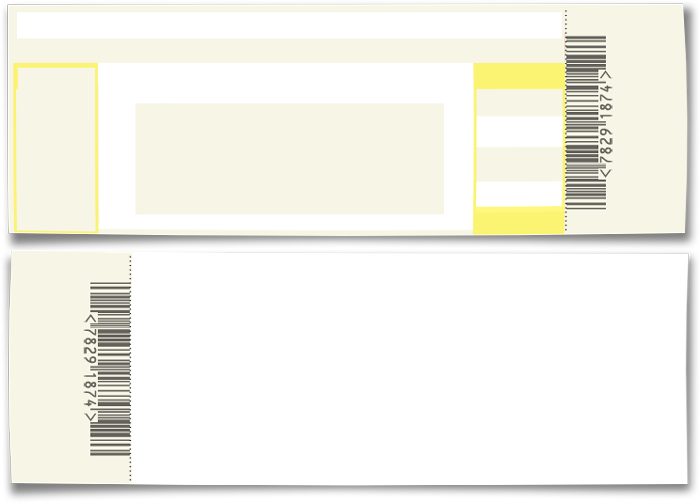
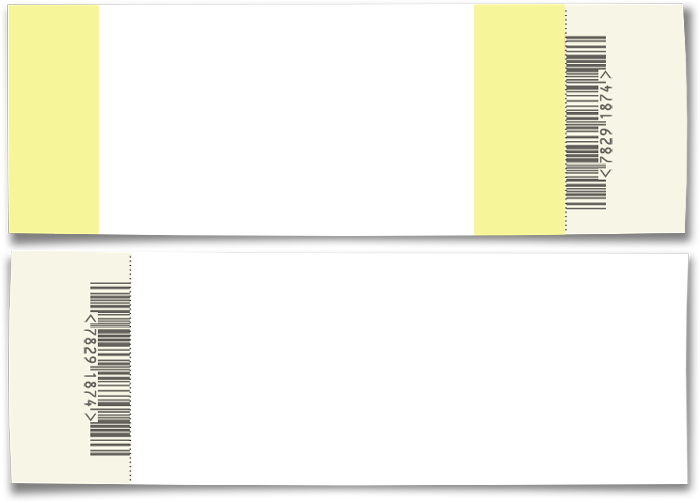
Refactoed ticket graphic. Fixed ff.flip and background transparency

Changed region(s): [[0.0, 0.0, 0.81, 0.4771]]

diff --git a/public/stylesheets/friskyfactory/waves/event.css b/public/stylesheets/friskyfactory/waves/event.css
@@ -13,6 +13,7 @@
 	position: absolute;
 	width: 700px;
 	height: 254px;
+	background-color: transparent;
 	-webkit-transform-style: preserve-3d;	
 	-webkit-transition-property: -webkit-transform;
 	-webkit-transition-duration: 1s;
@@ -25,6 +26,17 @@
 .ticket-container > .ticket .face {
 	position: absolute;
 	-webkit-backface-visibility: hidden;    
+}
+
+.ticket a.flip {
+	display: block;
+	text-decoration: none;
+	text-indent: -5000px;
+	width: 18px;
+	height: 20px;
+	margin-top: 208px;
+	margin-left: 62px;
+	background: url(/images/friskyfactory/buddy-bar.png) top left no-repeat;	
 }
 
 .ticket .front.face {
@@ -84,15 +96,15 @@
 	font-size: 16px;
 }
 
+.ticket-container > .ticket .back.face {
+	-webkit-transform: rotateY(180deg);
+}
+
 .ticket .back.face {
 	background: url('/images/friskyfactory/ticket.png') 0 -250px;	
 	margin: 0 auto;
 	width: 700px;
 	height: 248px;
-}
-
-.ticket-container > .ticket .back.face {
-	-webkit-transform: rotateY(180deg);
 }
 
 .ticket .back.face .info-pane {
@@ -118,37 +130,15 @@
 	margin-bottom: 0px;
 }
 
-/*#new_event_overlay {
-	background: url('/images/friskyfactory/golden_fibers.png') repeat-y top center #CEC2A2;
-	padding: 5px 20px 10px 20px;
-	-webkit-box-shadow: 0 0 90px #000;	
-	-moz-box-shadow:0 0 90px 5px #000;
-	box-shadow:0 0 90px 5px #000;
-	-webkit-border-radius: 6px;
-	-moz-border-radius: 6px;
-	border-radius: 6px;
-}*/
-
-/*#new_event_overlay h1 {
-	text-shadow: 0px 2px 4px rgba(0, 0, 0, 0.5);	
-	text-align: center;
-}*/
-
-/*#new_event_overlay .close {
-	background-image: url(/images/friskyfactory/close.png);
-	position: absolute;
-	right: -15px;
-	top: -15px;
-	cursor: pointer;
-	height: 35px;
-	width: 35px;
-}*/
+.ticket .back.face ul.navi a.flip {
+	background-position: -200px 0;
+	margin-left: 18px;
+}
 
 #new_event_overlay form {
 	position: relative;
 	margin: 0 auto;
 	width: 700px;
-/*	font-family: 'Arial';*/
 }
 
 #new_event_overlay .front.face .header {

diff --git a/public/javascripts/lib/ff.ticket.js b/public/javascripts/lib/ff.ticket.js
@@ -4,33 +4,32 @@
 		
 		if (Modernizr.csstransforms3d) {
 			return this.each(function() {
-				$this = $(this); // a ticket				
-				$this.click(function(event) {
+				$this = $(this); // ticket				
+				$this.find('a.flip').click(function(event) {
+					event.preventDefault();
 					$(this).closest('.ticket').toggleClass('flipped');
 				});				
 			});
 			
 		} else {			
-
-			return this.each(function() {
-				
+			return this.each(function() {				
 				$this = $(this); // ticket
 				$this.find('.back.face').css('-webkit-transform', 'rotateY(0deg)');
 				$this.find('.face-container:eq(1)').hide();
 				
-				$this.find('.front.face').live('click', function(event) {
-					event.preventDefault();					
+				$this.find('.front.face').find('a.flip').live('click', function(event) {
 					var $ticket = $(this).closest('.ticket');
 					
+					event.preventDefault();					
 					$ticket.flip({
 						speed: 300,
 						direction: 'lr',
 						dontChangeColor: true,
-						color: '#FFF',
-						content: $ticket.find('.face-container:hidden'),
-						
+						color: 'transparent',
+						bgColor: 'transparent',
+						content: $ticket.find('.face-container:hidden'),						
 						onEnd: function() {
-							$ticket.find('.back.face').click(function(event) {
+							$ticket.find('.back.face').find('a.flip').click(function(event) {
 								event.preventDefault();
 								$ticket.revertFlip();
 							});

diff --git a/public/javascripts/lib/jquery/jquery.flip.js b/public/javascripts/lib/jquery/jquery.flip.js
@@ -94,12 +94,12 @@ var colors = {
 	red:[255,0,0],
 	silver:[192,192,192],
 	white:[255,255,255],
-	yellow:[255,255,0],
-	transparent: [255,255,255]
+	yellow:[255,255,0]
+	// transparent: [255,255,255]
 };
 
 var acceptHexColor=function(color) {
-	if(color && color.indexOf("#")==-1 && color.indexOf("(")==-1){
+	if(color && color.indexOf("#")==-1 && color.indexOf("(")==-1 && color !== 'transparent'){
 		return "rgb("+colors[color].toString()+")";
 	} else {
 		return color;

diff --git a/config/routes.rb b/config/routes.rb
@@ -3,7 +3,7 @@ Friskyfactory::Application.routes.draw do
   # To show waves
   namespace :wave do
     resources :communities, :only => [ :show ]
-    resources :events,      :only => [ :index, :create ]
+    resources :events,      :only => [ :index, :show, :create ]
     
     resources :profiles,    :only => [ :index, :show ] do
       member do
